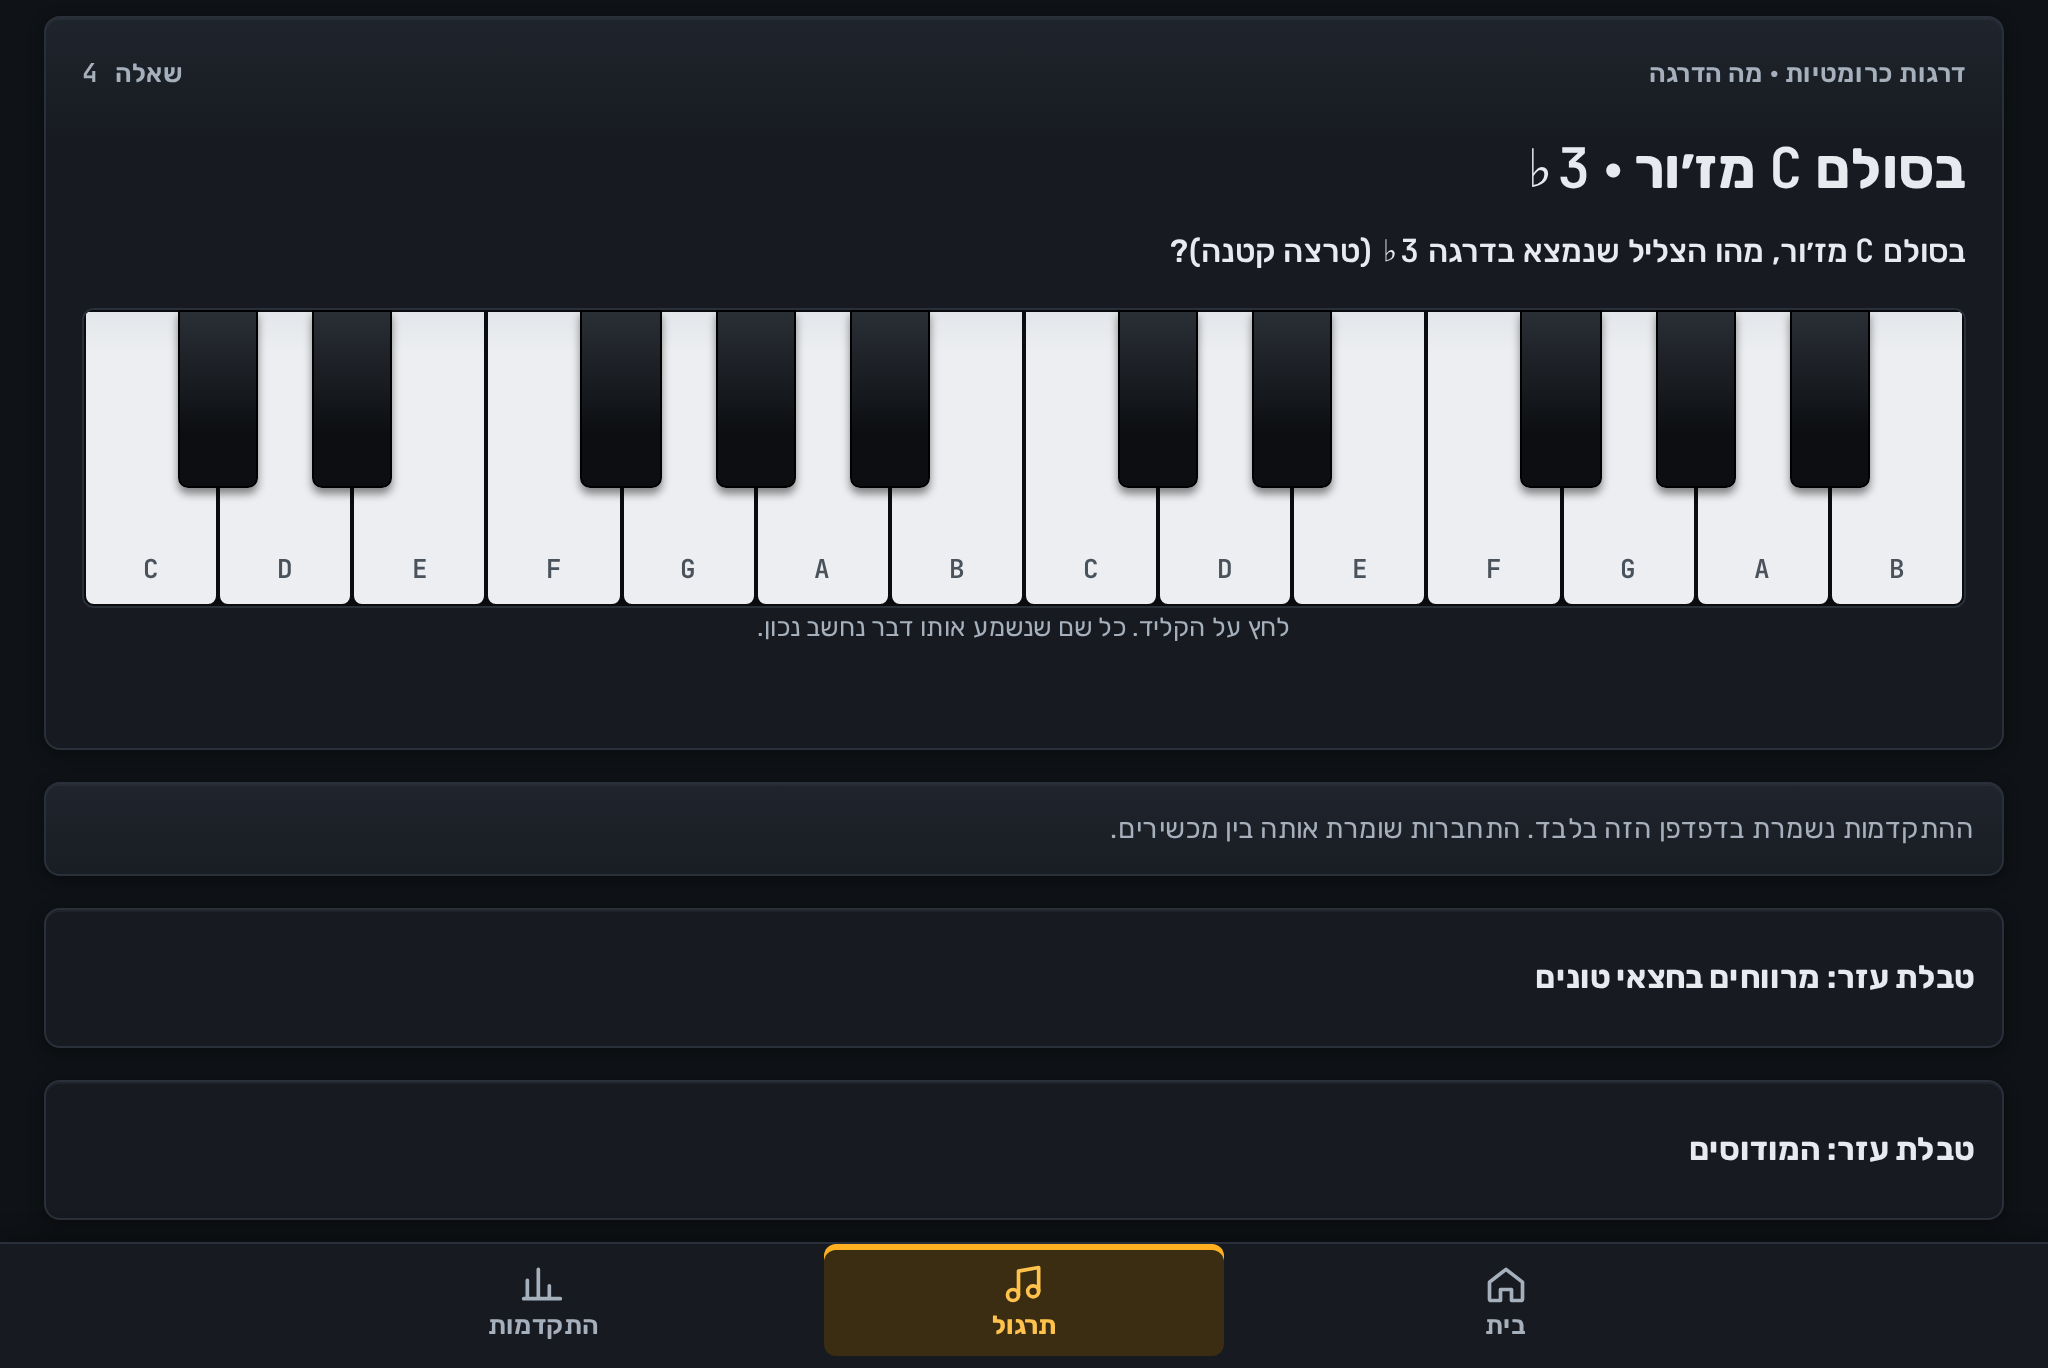
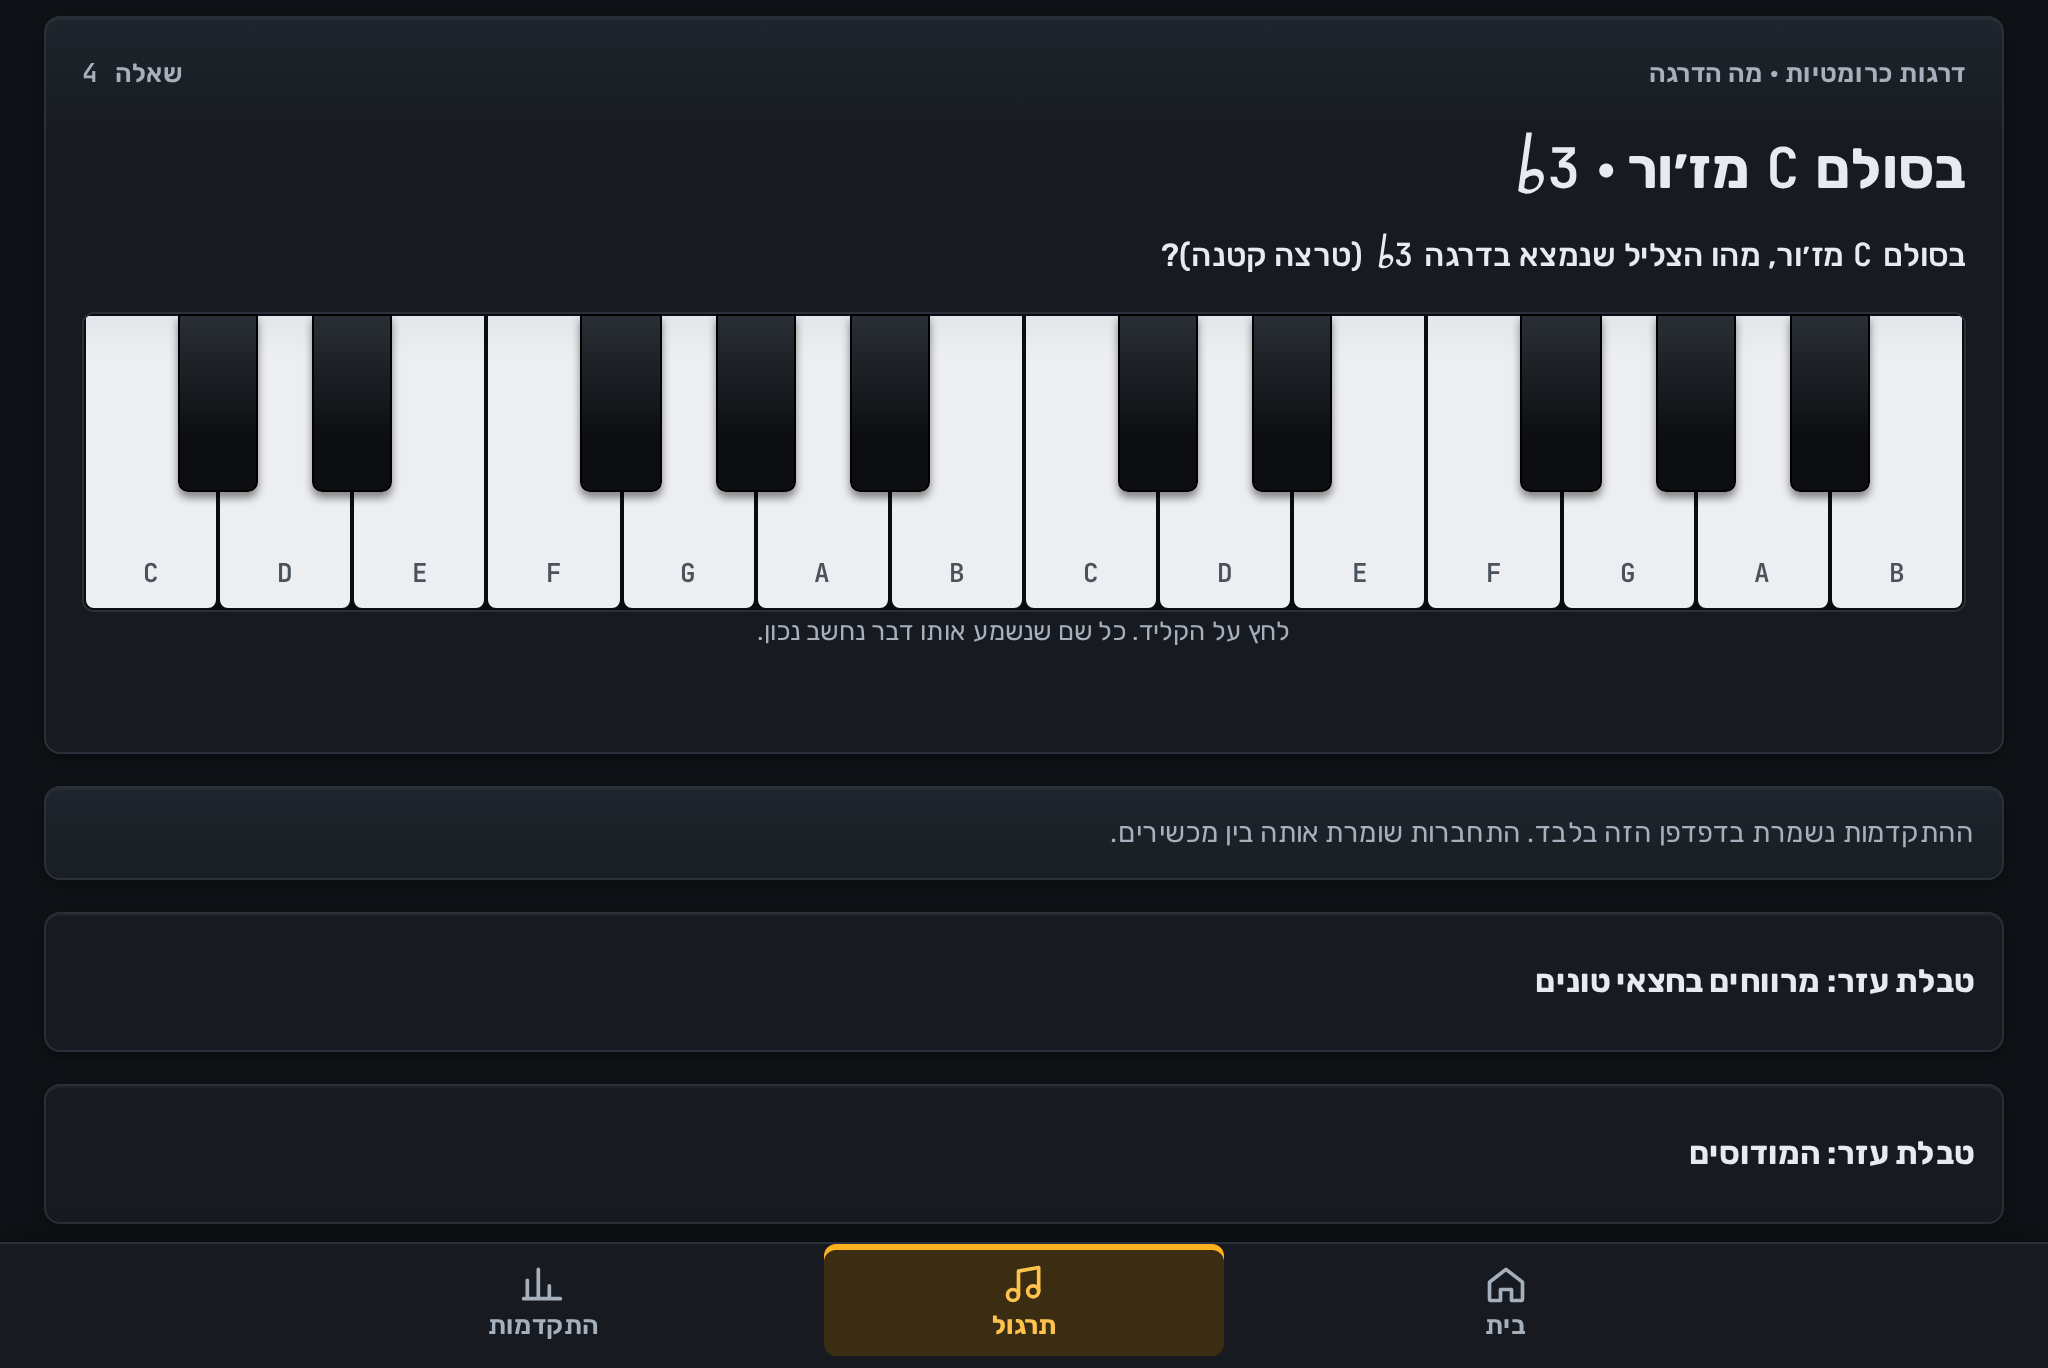
תיקון כיוון התצוגה של ♭3: בידוד LTR וגליף מוזיקלי
The previous typography still read backwards in an RTL line.
U+266D/U+266F are bidi-neutral and were missing from the mono font,
so the flat often rendered as a fallback glyph and could sit after
the digit (3♭). The whole formula was an inline span, right-aligned,
so the eye hit E first.

Each degree and note is now a <bdi class="tok" dir="ltr">
inline-block, accidentals are inline SVGs (atomic, not bidi-neutral
characters), and the big formula is a centered dir=ltr block:
♭3 = E, left to right. Sequences of tokens (mode table, alterations)
are wrapped in dir=ltr so scale order stays C–B, not reversed.

diff --git a/index.html b/index.html
@@ -137,7 +137,7 @@ h1 {
 }
 .sub { color: var(--muted-t); font-size: 14px; margin: 6px 0 0; }
 .staff { display: none; }
-.n, .ltr {
+.n {
   font-family: var(--mono);
   font-weight: 600;
   direction: ltr;
@@ -145,12 +145,59 @@ h1 {
   white-space: nowrap;
   font-variant-numeric: tabular-nums;
 }
+bdi.tok {
+  display: inline-block;
+  direction: ltr;
+  unicode-bidi: isolate;
+  white-space: nowrap;
+  font-family: var(--mono);
+  font-weight: 600;
+  font-style: normal;
+  font-variant-numeric: tabular-nums;
+  vertical-align: baseline;
+  text-align: left;
+  padding-inline: 0.06em;
+}
+bdi.tok .acc {
+  display: inline-block;
+  width: 0.62em;
+  height: 1.2em;
+  vertical-align: -0.18em;
+  margin-inline-end: 0.08em;
+  overflow: visible;
+}
+bdi.tok .acc-flat {
+  width: 0.58em;
+  height: 1.25em;
+  vertical-align: -0.22em;
+  transform: skewX(-8deg);
+  transform-origin: 50% 100%;
+}
+bdi.tok .acc-sharp {
+  width: 0.68em;
+  height: 1.2em;
+  vertical-align: -0.18em;
+}
+.formula {
+  display: block;
+  direction: ltr;
+  unicode-bidi: isolate;
+  text-align: center;
+  font-family: var(--mono);
+  font-weight: 700;
+  font-size: 32px;
+  line-height: 1.2;
+  margin: 6px 0 2px;
+}
+.formula bdi.tok { font-size: 1em; font-weight: 700; }
+.formula bdi.tok .acc { width: 0.68em; height: 1.25em; vertical-align: -0.14em; }
+.formula bdi.tok .acc-sharp { width: 0.74em; height: 1.3em; }
 .prompt .task {
   display: block;
   font-size: 16px;
   font-weight: 500;
   color: var(--text);
-  margin-top: 8px;
+  margin-top: 10px;
   line-height: 1.55;
   text-wrap: pretty;
 }
@@ -844,12 +891,19 @@ td.num, td:has(.n) {
   const acc = a => a > 0 ? '#'.repeat(a) : 'b'.repeat(-a);
   const nm = n => LET[n.l] + acc(n.a);
   // Display-only typography. nm() stays ASCII (#/b) for data, keys, and tests.
+  // Accidentals are inline SVGs: U+266D/U+266F are bidi-neutral and often missing from mono fonts.
   const accPretty = a => a > 0 ? '♯'.repeat(a) : '♭'.repeat(-a);
   const nmPretty = n => LET[n.l] + accPretty(n.a);
   const degPretty = d => d.replace(/#/g, '♯').replace(/b/g, '♭');
-  const N = n => `<span class="n" dir="ltr">${nmPretty(n)}</span>`;
-  const D = d => `<span class="n" dir="ltr">${degPretty(d)}</span>`;
-  const formula = html => `<span class="big ltr" dir="ltr">${html}</span>`;
+  const ACC_FLAT = '<svg class="acc acc-flat" viewBox="0 0 12 24" aria-hidden="true" focusable="false"><path fill="currentColor" d="M2.55 0h2.05v14.35c.85-.62 1.85-.95 2.95-.95 2.35 0 3.85 1.72 3.85 3.85 0 2.7-2.35 5.35-5.55 5.35-1.15 0-2.2-.35-3.3-1.05V0zm2.05 16.15v4.15c.62.5 1.38.75 2.2.75 1.82 0 2.95-1.32 2.95-3.05 0-1.28-.88-2.12-2.28-2.12-.95 0-1.95.38-2.87 1.27z"/></svg>';
+  const ACC_SHARP = '<svg class="acc acc-sharp" viewBox="0 0 14 22" aria-hidden="true" focusable="false"><path fill="currentColor" d="M4.35 1.1h2.05L5.55 20.9H3.5L4.35 1.1zm4.85-1.1h2.05L10.4 19.7H8.35L9.2 0zM1.05 12.85l11.7-2.55.42 1.95-11.7 2.55-.42-1.95zM.85 8.15l11.7-2.55.42 1.95L1.27 10.1l-.42-1.95z"/></svg>';
+  const accHTML = a => a > 0 ? ACC_SHARP.repeat(a) : a < 0 ? ACC_FLAT.repeat(-a) : '';
+  const nmHTML = n => LET[n.l] + accHTML(n.a);
+  const degHTML = d => (d[0] === '#' ? ACC_SHARP : ACC_FLAT) + `<span class="deg-n">${d.slice(1)}</span>`;
+  const tok = (html, sym) => `<bdi class="tok" dir="ltr" data-sym="${sym}" aria-label="${sym}">${html}</bdi>`;
+  const N = n => tok(nmHTML(n), nmPretty(n));
+  const D = d => tok(degHTML(d), degPretty(d));
+  const formula = html => `<div class="formula" dir="ltr">${html}</div>`;
   const parse = s => ({ l: LET.indexOf(s[0]), a: s.slice(1).split('').reduce((t, c) => t + (c === '#' ? 1 : -1), 0) });
   const SIMPLE = ['C','C#','D','Eb','E','F','F#','G','Ab','A','Bb','B'].map(parse);
   const simple = p => SIMPLE[mod(p, 12)];
@@ -925,7 +979,7 @@ td.num, td:has(.n) {
       if (maxAcc(notes) <= (lv === 3 ? 2 : 1)) return { r, m, notes };
     }
   };
-  const seqHTML = (notes, extra = () => '') => `<div class="seq">${notes.map((n, i) => `<div class="cell${extra(i)}">${nmPretty(n)}</div>`).join('')}</div>`;
+  const seqHTML = (notes, extra = () => '') => `<div class="seq">${notes.map((n, i) => `<div class="cell${extra(i)}">${N(n)}</div>`).join('')}</div>`;
 
   const DEGS = ['#1','b2','#2','b3','#4','b5','#5','b6','#6','b7'];
   const degParse = d => ({ alt: d[0] === '#' ? 1 : -1, deg: +d.slice(1) });
@@ -1049,11 +1103,11 @@ td.num, td:has(.n) {
       }},
       { id: 'md-alter', title: 'שינויים ביחס למז\'ור', gen() {
         const m = rnd(MODES), alt = modeAlts(m);
-        const order = 'מהבהיר לכהה: לידי (♯4), יוני, מיקסולידי (♭7), דורי (+♭3), אאולי (+♭6), פריגי (+♭2), לוקרי (+♭5). כל צעד מוסיף את הבמול הבא בסדר ♭7, ♭3, ♭6, ♭2, ♭5.';
-        const show = a => a.length ? `<span class="n">${a.map(degPretty).join(' ')}</span>` : 'בלי שינוי';
+        const order = `מהבהיר לכהה: לידי (${D('#4')}), יוני, מיקסולידי (${D('b7')}), דורי (+${D('b3')}), אאולי (+${D('b6')}), פריגי (+${D('b2')}), לוקרי (+${D('b5')}). כל צעד מוסיף את הבמול הבא בסדר ${D('b7')}, ${D('b3')}, ${D('b6')}, ${D('b2')}, ${D('b5')}.`;
+        const show = a => a.length ? `<span dir="ltr">${a.map(D).join(' ')}</span>` : 'בלי שינוי';
         if (Math.random() < .5) return {
           prompt: `מהם השינויים של <span class="big">${m.he}</span> <span class="n">${m.en}</span> ביחס למז'ור?<br><span style="font-size:15px;color:var(--muted)">בחר את כל השינויים ולחץ "בדוק". אם אין שינוי, לא לבחור כלום.</span>`,
-          kind: 'multi', choices: ALTS.map(a => ({ label: degPretty(a), value: a })), correct: alt,
+          kind: 'multi', choices: ALTS.map(a => ({ label: D(a), value: a })), correct: alt,
           explain: () => `${m.he}: ${show(alt)}. ${order}`,
         };
         return {
@@ -1320,7 +1374,7 @@ td.num, td:has(.n) {
   $('reftable').innerHTML = '<tr><th>סימון</th><th>שם</th><th>חצאי טונים</th><th>טונים</th></tr>' +
     IV.map(i => `<tr><td>${S(i)}</td><td>${i.he}</td><td class="num">${i.s}</td><td class="num">${i.s / 2}</td></tr>`).join('');
   $('modetable').innerHTML = '<tr><th>מודוס</th><th>לפי הספר</th><th>ביחס למז\'ור</th><th>מדרגה בסולם האב</th><th>מ־C</th></tr>' +
-    MODES.map(m => `<tr><td>${m.he} <span class="n" style="font-weight:500">${m.en}</span></td><td>${m.desc}</td><td><span class="n">${modeAlts(m).map(degPretty).join(' ') || '—'}</span></td><td class="num">${m.deg}</td><td><span class="n" style="font-weight:500">${spellMode(parse('C'), m).map(nmPretty).join(' ')}</span></td></tr>`).join('');
+    MODES.map(m => `<tr><td>${m.he} <span class="n" style="font-weight:500">${m.en}</span></td><td>${m.desc}</td><td><span dir="ltr">${modeAlts(m).map(D).join(' ') || '—'}</span></td><td class="num">${m.deg}</td><td><span dir="ltr">${spellMode(parse('C'), m).map(N).join(' ')}</span></td></tr>`).join('');
 
   document.addEventListener('keydown', e => { if (e.key === 'Enter' && done && $('next') && document.activeElement !== $('next')) next(); });
   window.__test = { EX, pc, nm, parse, spellIv, IV, MODES, spellMode, onLetter, modeAlts, nmPretty, degPretty, DEG_HE, degParse, MAJ, chromaRootOf, chromaNoteInKey, KEYS };

diff --git a/tests/logic.test.js b/tests/logic.test.js
@@ -117,7 +117,7 @@ check('every generator, every level, 2000 times', () => {
       if (ty.id === 'md-build') assert.strictEqual(new Set(q.correct).size, 7);
       if (ty.id === 'md-alter' && q.kind === 'multi') {
         assert.ok(q.choices.every(c => /^[b#][1-7]$/.test(c.value)), 'alt values stay ASCII');
-        assert.ok(q.choices.every(c => /[♯♭]/.test(c.label)), 'alt labels are pretty');
+        assert.ok(q.choices.every(c => /class="tok" dir="ltr"/.test(c.label) && /data-sym="[♯♭]/.test(c.label)), 'alt labels are LTR tokens');
       }
     }
   }
